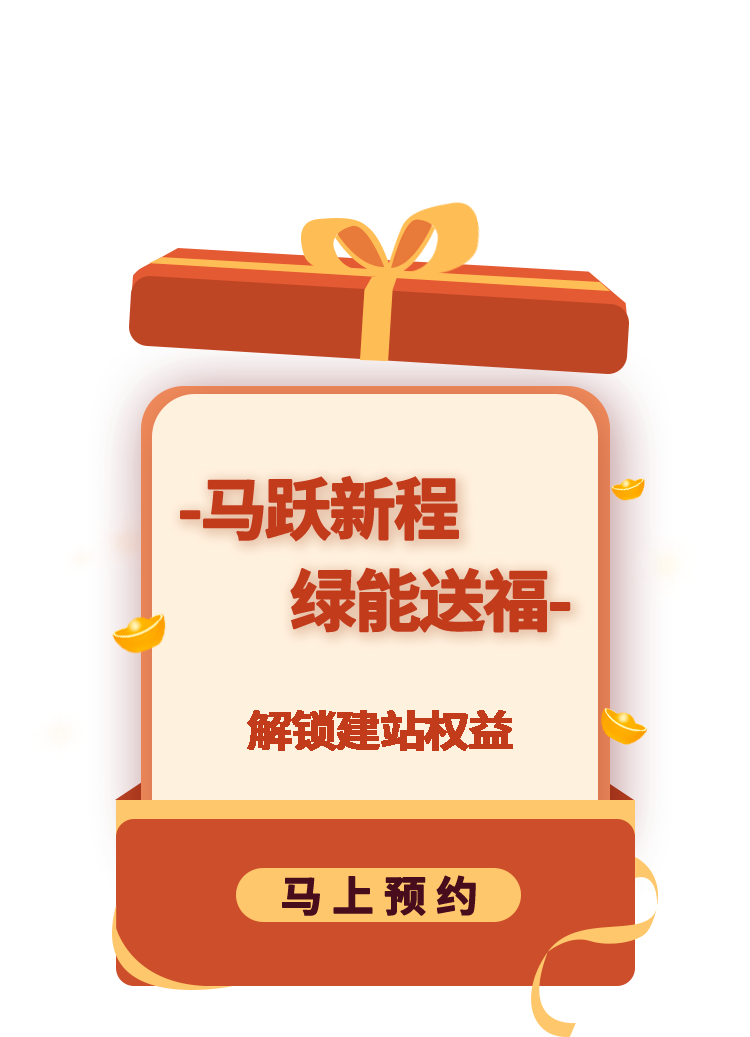
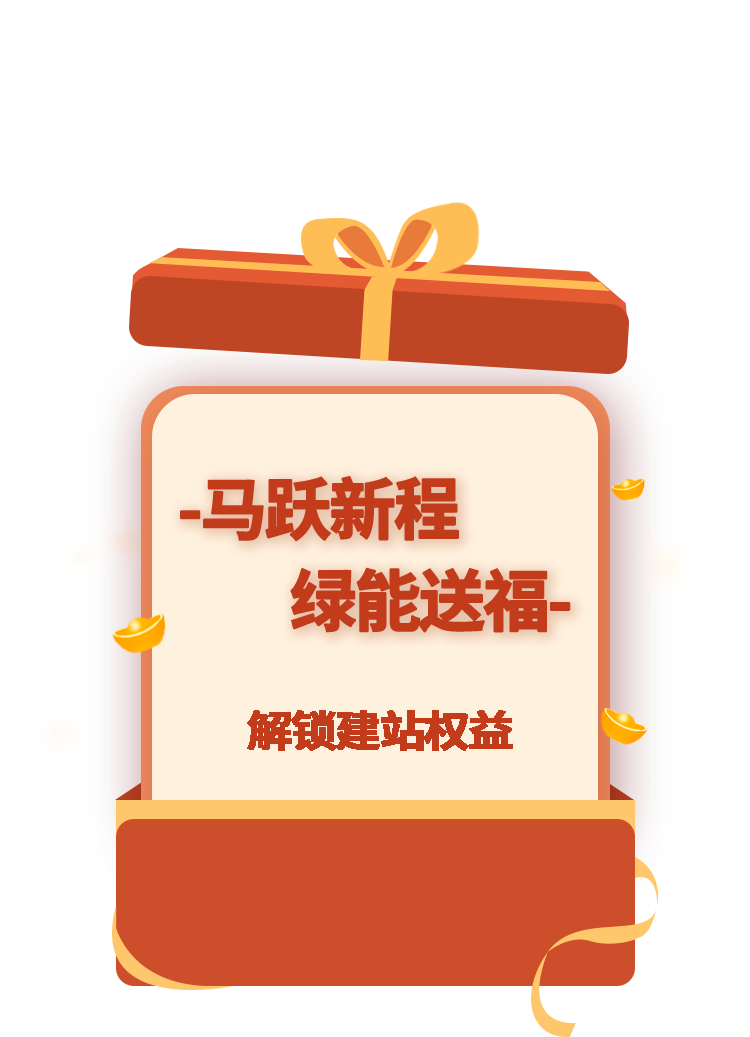
优化

Changed region(s): [[0.3067, 0.8332, 0.7053, 0.8949]]

diff --git a/server/public/lottery/index.html b/server/public/lottery/index.html
@@ -46,10 +46,6 @@
         <div class="modal-overlay"></div>
         <div class="modal-content">
             <img src="./images/mark2.png" class="modal-bg" alt="Miss Background">
-            <div class="miss-info">
-                <div class="miss-title">-马跃新程<br>绿能送福-</div>
-                <div class="miss-desc">解锁建站权益</div>
-            </div>
             <img src="./images/yuyue.png" class="miss-btn-img" alt="马上预约" onclick="closeModal('missModal')">
         </div>
     </div>
@@ -128,11 +124,79 @@
             openid = localStorage.getItem('u_openid');
         }
 
+        // Local development check
+        if (!openid && (window.location.hostname === 'localhost' || window.location.hostname === '127.0.0.1')) {
+             openid = 'local_test_openid';
+             localStorage.setItem('u_openid', openid);
+             syncUser(openid);
+             console.log('Local environment detected, using default OpenID:', openid);
+        }
+
         if (!openid) {
             redirectToAuth();
         } else {
             console.log('OpenID retrieved:', openid);
         }
+
+        // Close modal function
+        window.closeModal = function(modalId) {
+            document.getElementById(modalId).style.display = 'none';
+        }
+
+        // Draw Lottery function
+        function drawLottery(openid) {
+            return fetch('/api/lottery/draw', {
+                method: 'POST',
+                headers: {
+                    'Content-Type': 'application/json'
+                },
+                body: JSON.stringify({ openid: openid })
+            })
+            .then(res => res.json());
+        }
+
+        // Lottery Draw Handler
+        document.querySelector('.open-btn').addEventListener('click', function() {
+            if (!openid) {
+                // If openid is missing, try to redirect or alert
+                redirectToAuth();
+                return;
+            }
+            
+            const btn = document.querySelector('.open-btn');
+            
+            // Add loading/drawing effect
+            btn.classList.add('drawing');
+            
+            const minTimePromise = new Promise(resolve => setTimeout(resolve, 1500));
+            
+            const drawPromise = drawLottery(openid).catch(error => {
+                console.error('Error during draw:', error);
+                return { code: 0, msg: 'Network Error' };
+            });
+
+            Promise.all([drawPromise, minTimePromise]).then(([res]) => {
+                // Remove loading effect
+                btn.classList.remove('drawing');
+
+                if (res.code === 1) {
+                    const data = res.data;
+                    if (data.is_win === 1) {
+                        // Update prize amount
+                        document.getElementById('prizeValue').innerText = data.amount;
+                        // Show prize modal
+                        document.getElementById('prizeModal').style.display = 'block';
+                    } else {
+                        // Show miss modal
+                        document.getElementById('missModal').style.display = 'block';
+                    }
+                } else {
+                    console.error('Draw failed:', res.msg);
+                    // Show miss modal even on error
+                    document.getElementById('missModal').style.display = 'block';
+                }
+            });
+        });
     </script>
 </body>
 </html>

diff --git a/server/public/lottery/style.css b/server/public/lottery/style.css
@@ -101,9 +101,8 @@ body {
     position: absolute;
     top: 50%;
     left: 50%;
-    transform: translate(-50%, -50%);
-    width: 80%;
-    max-width: 320px;
+    transform: translate(-50%, -56%);
+    width: 100%;
     text-align: center;
 }
 
@@ -112,6 +111,15 @@ body {
     display: block;
 }
 
+.miss-btn-img {
+    position: absolute;
+    bottom: 11%;
+    left: 50%;
+    transform: translateX(-50%);
+    width: 39%;
+    cursor: pointer;
+    z-index: 10;
+}
 .prize-info {
     position: absolute;
     top: 40%;
@@ -215,7 +223,30 @@ body {
 
 /* Miss Modal Styles */
 
-.miss-btn:active {
+/* Animation Classes */
+@keyframes coinFlip {
+    0% { transform: rotateY(0); }
+    100% { transform: rotateY(1800deg); }
+}
+
+.open-btn.drawing {
+    animation: coinFlip 2s ease-in infinite;
+    pointer-events: none;
+}
+
+@keyframes giftShake {
+    0% { transform: rotate(0deg); }
+    25% { transform: rotate(-5deg); }
+    50% { transform: rotate(0deg); }
+    75% { transform: rotate(5deg); }
+    100% { transform: rotate(0deg); }
+}
+
+.gift-img.drawing {
+    animation: giftShake 0.5s ease-in-out infinite;
+}
+
+.miss-btn-img:active {
     transform: translateX(-50%) scale(0.95);
 }
 

diff --git a/server/app/api/logic/LotteryLogic.php b/server/app/api/logic/LotteryLogic.php
@@ -1,0 +1,104 @@
+<?php
+namespace app\api\logic;
+
+use app\common\logic\BaseLogic;
+use app\common\model\marketing\Lottery;
+use app\common\model\marketing\LotteryRecord;
+use app\common\model\marketing\WeixinUser;
+use think\facade\Db;
+
+class LotteryLogic extends BaseLogic
+{
+    /**
+     * @notes 抽奖逻辑
+     * @param string $openidString
+     * @return array|false
+     */
+    public static function draw($openidString)
+    {
+        try {
+            // 1. 获取用户
+            $user = WeixinUser::where('openid', $openidString)->find();
+            if (!$user) {
+                self::setError('用户不存在');
+                return false;
+            }
+
+            // 2. 查询今日可用奖品
+            $today = date('Y-m-d');
+            $prizes = Lottery::where('available_date', $today)
+                ->whereRaw('total_quantity > distributed_quantity')
+                ->select();
+
+            if ($prizes->isEmpty()) {
+                // 没有奖品，返回未中奖状态
+                return [
+                    'is_win' => 0,
+                    'message' => '今日奖品已派完或无活动'
+                ];
+            }
+
+            // 3. 随机选取一个奖品 (这里简单取第一个，或者随机)
+            // 假设同一天可能有多个配置，随机取一个
+            $prize = $prizes->random();
+
+            // 4. 计算中奖金额
+            // prize_range 格式如 "0.1 - 0.3" 或 "¥0.1 - ¥0.3"
+            $rangeStr = str_replace(['¥', '￥', ' '], '', $prize->prize_range);
+            $range = explode('-', $rangeStr);
+            $min = isset($range[0]) ? floatval($range[0]) : 0;
+            $max = isset($range[1]) ? floatval($range[1]) : 0;
+            
+            // 生成随机金额，保留2位小数
+            $randomAmount = $min + mt_rand() / mt_getrandmax() * ($max - $min);
+            $amountStr = number_format($randomAmount, 2, '.', '');
+
+            // 5. 开启事务记录
+            Db::startTrans();
+            try {
+                // 增加已发放数量
+                // 使用乐观锁或直接更新，这里直接更新
+                $res = Lottery::where('id', $prize->id)
+                    ->where('distributed_quantity', '<', Db::raw('total_quantity'))
+                    ->inc('distributed_quantity')
+                    ->update();
+
+                if (!$res) {
+                    // 并发情况下可能刚发完
+                    Db::rollback();
+                    return [
+                        'is_win' => 0,
+                        'message' => '手慢了，奖品刚发完'
+                    ];
+                }
+
+                // 记录抽奖记录
+                LotteryRecord::create([
+                    'openid' => $user->id, // 存 ID
+                    'lottery_id' => $prize->id,
+                    'is_win' => 1,
+                    'amount' => $amountStr, // 存金额
+                    'prize_name' => $prize->prize_name,
+                    'create_time' => time(),
+                    'update_time' => time()
+                ]);
+
+                Db::commit();
+
+                return [
+                    'is_win' => 1,
+                    'prize_name' => $prize->prize_name,
+                    'amount' => $amountStr
+                ];
+
+            } catch (\Exception $e) {
+                Db::rollback();
+                throw $e;
+            }
+
+        } catch (\Exception $e) {
+            self::setError('抽奖失败:' . $e->getMessage());
+            return false;
+        }
+    }
+}

diff --git a/server/app/api/controller/LotteryController.php b/server/app/api/controller/LotteryController.php
@@ -1,0 +1,33 @@
+<?php
+namespace app\api\controller;
+
+use app\api\logic\LotteryLogic;
+use app\common\controller\BaseLikeAdminController;
+
+class LotteryController extends BaseLikeAdminController
+{
+    public array $notNeedLogin = ['draw'];
+
+    /**
+     * @notes 抽奖
+     * @return \think\response\Json
+     */
+    public function draw()
+    {
+        $openid = $this->request->post('openid');
+        if (empty($openid)) {
+            return $this->fail('openid不能为空');
+        }
+        $result = LotteryLogic::draw($openid);
+        if ($result === false) {
+            // 如果逻辑层返回false，可能是没有奖品或者其他错误
+            // 这里假设 LotteryLogic::getError() 会返回具体错误，或者默认为未中奖
+            $msg = LotteryLogic::getError() ?: '未中奖';
+            // 如果是业务上的“未中奖”，通常也会返回成功数据但标记为未中奖
+            // 但为了简单，如果 Logic 返回 false，我们认为就是没中或者出错
+            // 具体看 Logic 实现
+            return $this->fail($msg); 
+        }
+        return $this->data($result);
+    }
+}
